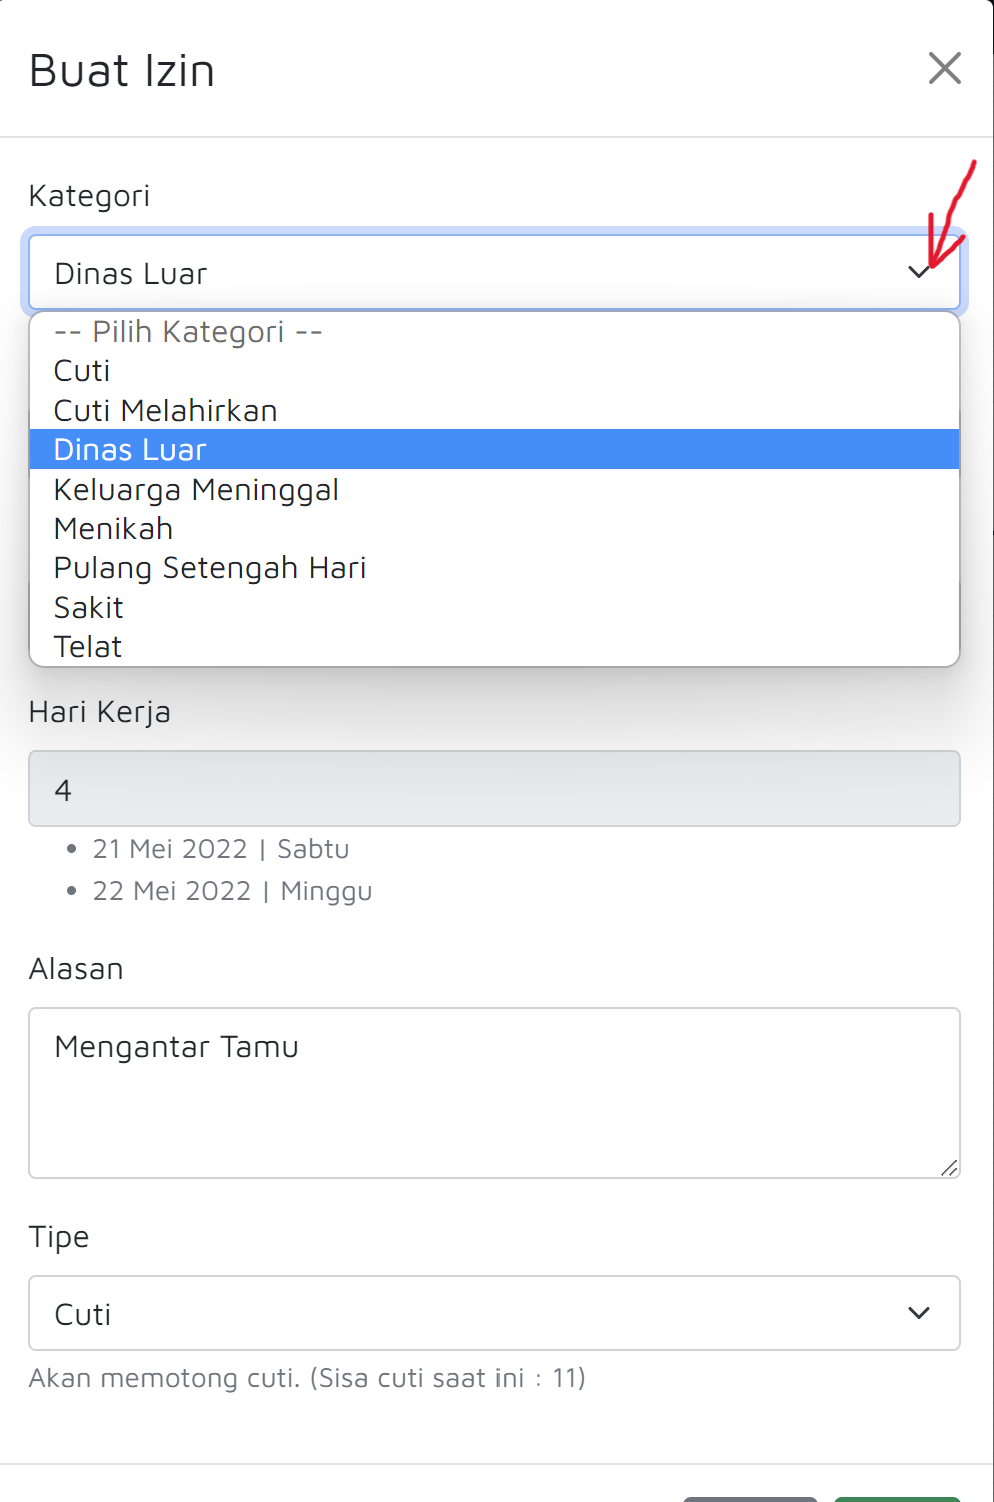
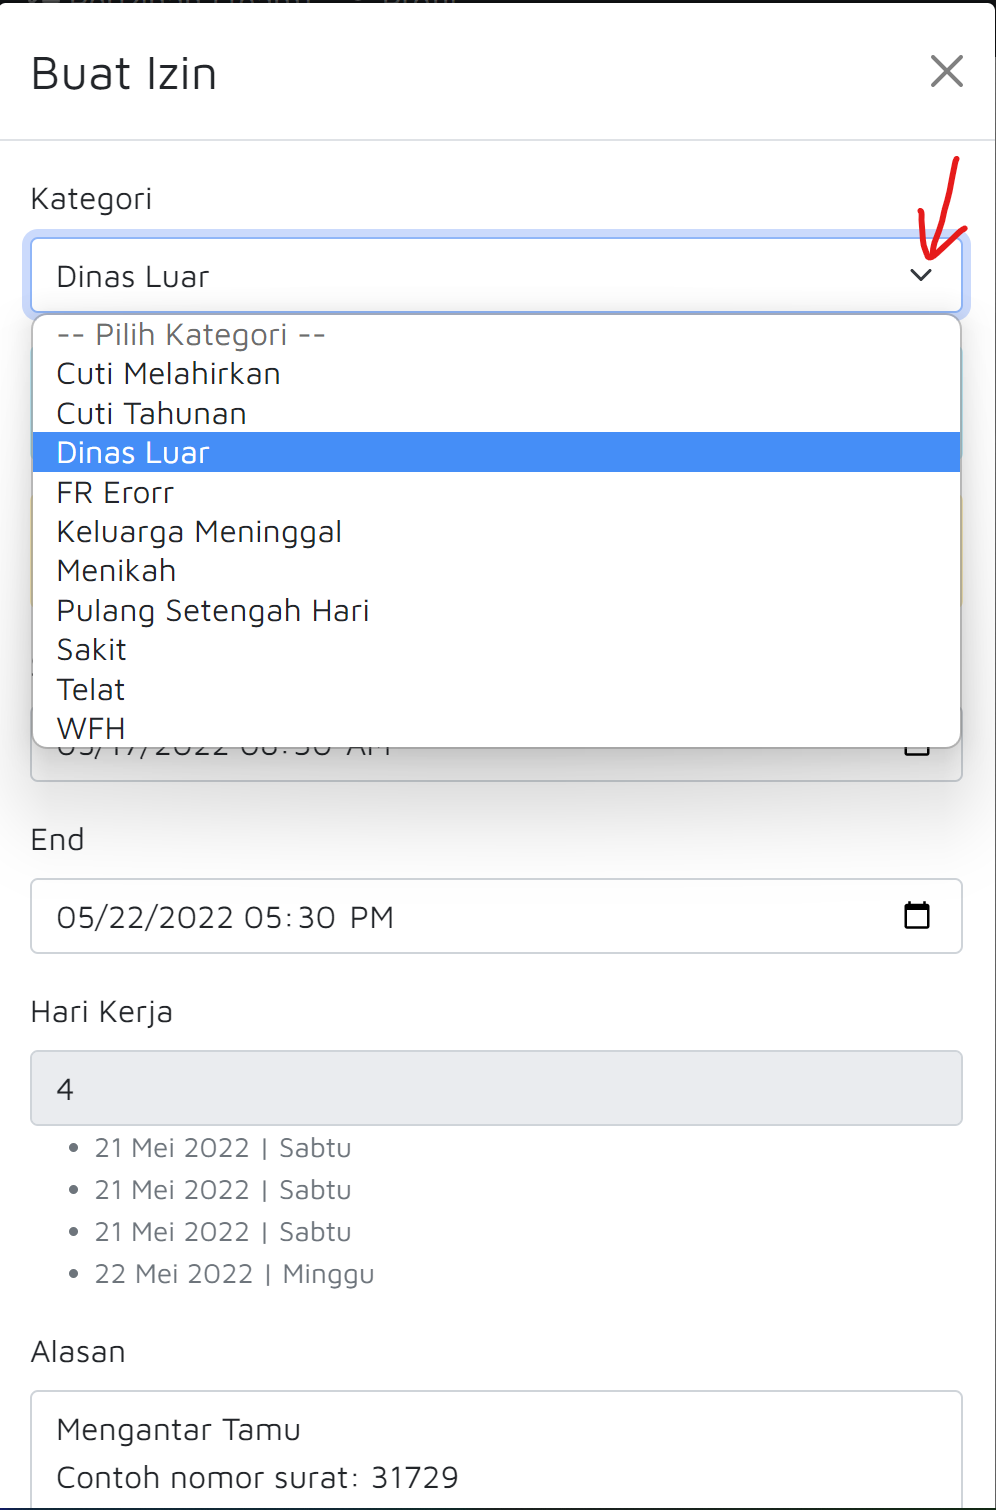
GitBook: [#47] No subject

diff --git a/cuti/buat-izin-cuti.md b/cuti/buat-izin-cuti.md
@@ -44,50 +44,44 @@ Kemudian pilih jam mulai cuti, digambar ini jam yang dipilih adalah jam 08:00 AM
 
 ### 5. Pilih Menit Mulai Cuti
 
-![](<../.gitbook/assets/Menit Cuti (1).png>)
+![](<../.gitbook/assets/Menit cuti.png>)
 
 Kemudian pilih menit cutinya… Di sini yang dipilih adalah menit 30.
 
 ### 6. Pilih Tanggal Akhir Cuti
 
-![](<../.gitbook/assets/Tanggal Akhir Cuti.png>)
+![](<../.gitbook/assets/Tanggal Akhir Cuti (1).png>)
 
 Kemudian lihat kolom di bawah tulisan End, klik icon kalender, kemudian pilih tanggal akhir cuti, di sini dipilih tanggal 22 Mei.
 
 ### 7. Pilih Jam Akhir Cuti
 
-![](<../.gitbook/assets/Jam Akhir Cuti.png>)
+![](<../.gitbook/assets/Jam Akhir Cuti (1).png>)
 
 Kemudian pilih jam akhir cuti, di sini dipilih jam 05:00 PM.
 
 ### 8. Pilih Menit Akhir Cuti
 
-![](<../.gitbook/assets/Menit Akhir Cuti.png>)
+![](<../.gitbook/assets/Menit Akhir Cuti (1).png>)
 
 Kemudian pilih menit akhir cuti… Di sini dipilih menit 30.
 
 ### 9. Jumlah Hari Kerja yang Terpakai
 
-![](<../.gitbook/assets/Hari Kerja.png>)
+![](<../.gitbook/assets/Hari kerja.png>)
 
 Kolom Hari Kerja akan secara otomatis menghitung jumlah hari kerja (cuti) karyawan. Harap diperiksa kembali apakah jumlah hari kerja (cuti) tersebut sudah sesuai dengan pengajuan yang karyawan mau ajukan, perhatikan hari Sabtu, Minggu, libur tanggal merah.
 
 ### 10. Masukkan Alasan Cuti
 
-![](<../.gitbook/assets/Alasan Cuti.png>)
+![](<../.gitbook/assets/Alasan cuti (2).png>)
 
-Lihat kolom alasan…. Di sini diisi 4 hari cuti, 17, 18, 19, 20, tanggal 21 hari Sabtu, tanggal 22 hari Minggu, jadi tidak termasuk hari kerja (cuti).
+Masukkan alasan cuti di kolom Alasan. Contoh: kategori cuti dinas luar, **WAJIB** menyertakan nomor surat beserta alasan.
 
-Jadi nanti yang akan dihitung adalah 4 hari, bukan 6 hari (karena 6 hari itu perhitungan otomatis untuk cuti rooster).
 
-### 11. Pilih Tipe Cuti
 
-![](<../.gitbook/assets/Tipe cuti.png>)
+### **11. Kirim**
 
-Kemudian lihat kolom di bawah tulisan **TYPE**, klik panah bawah “v”, pilih **Cuti** atau **Potong Gaji.**
-
-### **12. Kirim**
-
-![](<../.gitbook/assets/Tombol Kirim.png>)
+![](<../.gitbook/assets/Tombol kirim.png>)
 
 Berikutnya, klik **KIRIM.**

diff --git a/cara-install/android.md b/cara-install/android.md
@@ -4,7 +4,7 @@
 
 ### ![](<../.gitbook/assets/Install android home.jpeg>)
 
-Pertama, buka website ESS di [https://ess.rimauaplikasi.com/](https://ess.rimauaplikasi.com/) , lalu pencet Add ESS Rimau to Home screen.
+Pertama, buka website ESS di [https://ess.rimauaplikasi.com/](https://ess.rimauaplikasi.com/) , lalu tekan Add ESS Rimau to Home screen.
 
 
 
@@ -12,18 +12,16 @@ Pertama, buka website ESS di [https://ess.rimauaplikasi.com/](https://ess.rimaua
 
 ### ![](<../.gitbook/assets/Install android 1.jpeg>)
 
-Bila pilihan Add ESS Rimau to Home screen tidak muncul, pencet tombol titik 3.
+Bila pilihan Add ESS Rimau to Home screen tidak muncul, tekan tombol titik 3.
 
 ### Install App
 
 ![](<../.gitbook/assets/Install android 2.jpeg>)
 
-Setelah memencet titik 3, pencet Install app
-
-
+Setelah menekan titik 3, pencet Install app
 
 ### Install
 
 ![](<../.gitbook/assets/Install android 3.jpeg>)
 
-Setelah memencet Install app, maka akan muncul kotak Install app, lalu pencet Install.
+Setelah menekan Install app, maka akan muncul kotak Install app, lalu tekan Install.

diff --git a/README.md b/README.md
@@ -1,23 +1,2 @@
-# IOS
+# Pendahuluan
 
-### Buka Website ESS
-
-<img src=".gitbook/assets/WhatsApp Image 2022-05-17 at 9.41.25 AM.jpeg" alt="" data-size="original">
-
-Pertama, buka website ESS di [https://ess.rimauaplikasi.com/](https://ess.rimauaplikasi.com/)&#x20;
-
-
-
-### Pencet Tombol Share
-
-![](<.gitbook/assets/Install IOS 1 (1).jpeg>)
-
-Setelah membuka website ESS, pencet tombol share.
-
-
-
-### Tambahkan ke Layar Utama
-
-![](<.gitbook/assets/Install IOS 2.jpeg>)
-
-Pencet tombol Tambah ke Layar Utama untuk menginstall aplikasi.

diff --git a/absensi/cek-absensi-spesifik.md b/absensi/cek-absensi-spesifik.md
@@ -1,17 +1,15 @@
 # Cek Absensi Spesifik
 
-
-
 ![Pilih bulan](<../.gitbook/assets/image (1).png>)
 
 ### Cek Absensi Bulan Tertentu
 
-1. Pencet tanda panah "v" seperti yang ditunjuk di foto.
+1. Klik tanda panah "v" seperti yang ditunjuk di foto.
 2. Pilih bulan yang akan di cek absensinya.
 
 ![Pilih tahun](<../.gitbook/assets/image (3) (1).png>)
 
 ### Cek Absensi Tahun Tertentu
 
-1. Pencet tanda panah "v" seperti yang ditunjuk di foto.
+1. Klik tanda panah "v" seperti yang ditunjuk di foto.
 2. Pilih bulan yang akan di cek absensinya.

diff --git a/README (2).md b/README (2).md
@@ -1,0 +1,23 @@
+# IOS
+
+### Buka Website ESS
+
+<img src=".gitbook/assets/WhatsApp Image 2022-05-17 at 9.41.25 AM.jpeg" alt="" data-size="original">
+
+Pertama, buka website ESS di [https://ess.rimauaplikasi.com/](https://ess.rimauaplikasi.com/)&#x20;
+
+
+
+### Pencet Tombol Share
+
+![](<.gitbook/assets/Install IOS 1 (1).jpeg>)
+
+Setelah membuka website ESS, tekan tombol share.
+
+
+
+### Tambahkan ke Layar Utama
+
+![](<.gitbook/assets/Install IOS 2.jpeg>)
+
+Tekan tombol Tambah ke Layar Utama untuk menginstall aplikasi.

diff --git a/SUMMARY.md b/SUMMARY.md
@@ -1,8 +1,10 @@
 # Table of contents
 
+* [Pendahuluan](README.md)
+
 ## Cara Install
 
-* [IOS](README.md)
+* [IOS](<README (2).md>)
 * [Android](cara-install/android.md)
 
 ## Absensi
